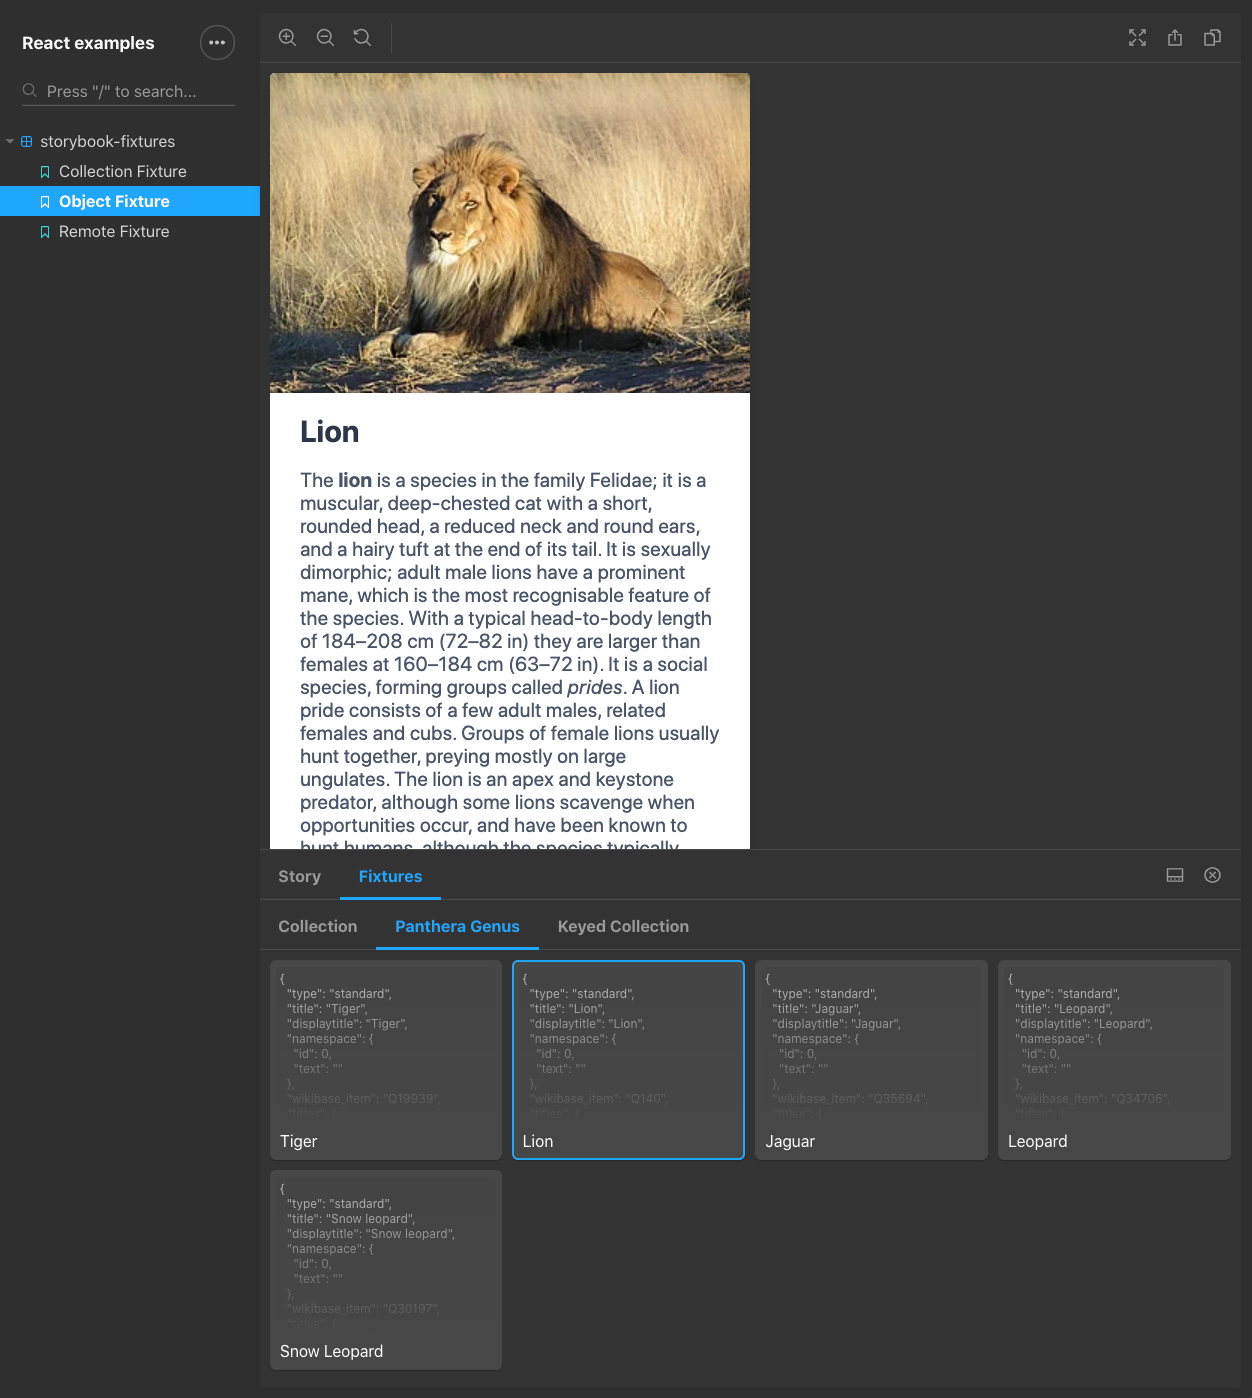
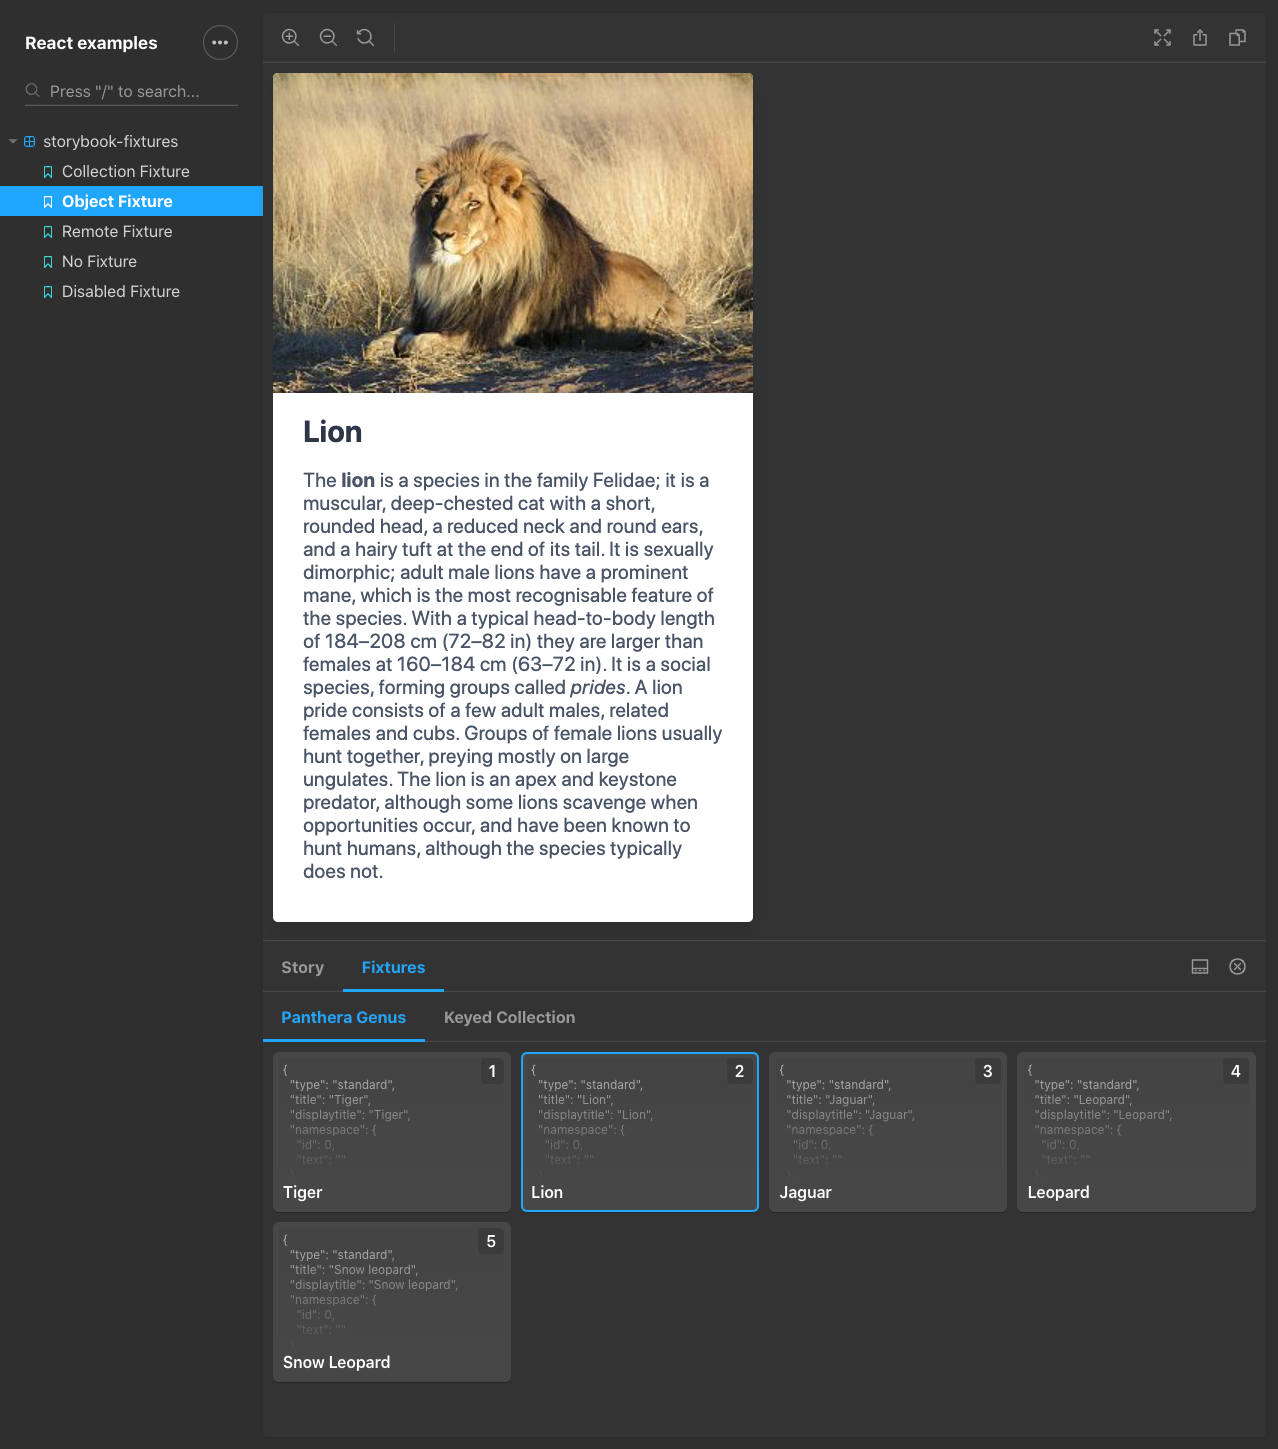
Update storybook-fixtures README

diff --git a/packages/storybook-fixtures/README.md b/packages/storybook-fixtures/README.md
@@ -20,7 +20,14 @@ module.exports = {
 };
 ```
 
+A new 'Fixtures' panel will appear which contains fixture sections as sub tabs.
+Fixture sections contain fixture variants which can be toggled by clicking or
+keyboard shortcuts - keys `1` to `9` correspond to the first 9 variants. 
+
 ## Usage
+
+Fixture definitions must contain fixture section name as key and variants as
+its properties.
 
 ```js
 import { withFixtures } from 'storybook-fixtures';
@@ -31,6 +38,7 @@ export default {
   title: 'storybook-fixtures',
   decorators: [
     withFixtures({
+      // fixture sections
       collection: pantheraData,
     }),
   ],
@@ -50,13 +58,19 @@ export const myRemoteFixture = ({ fixture }) => {
 myRemoteFixture.story = {
   parameters: {
     fixtures: {
+      // fixture sections
       remoteFixtures: {
+        // variants
         'My remote fixture': 'https://example.com/data.json'
       }
     }  
   }
 }
-```
+``` 
+
+Each variant can be either contain the data, or a URL to fetch the data. The data
+for all URLs (a variant string value is assumed as URL) will be fetched when the
+fixture section is selected.  
 
 ## Imports
 
